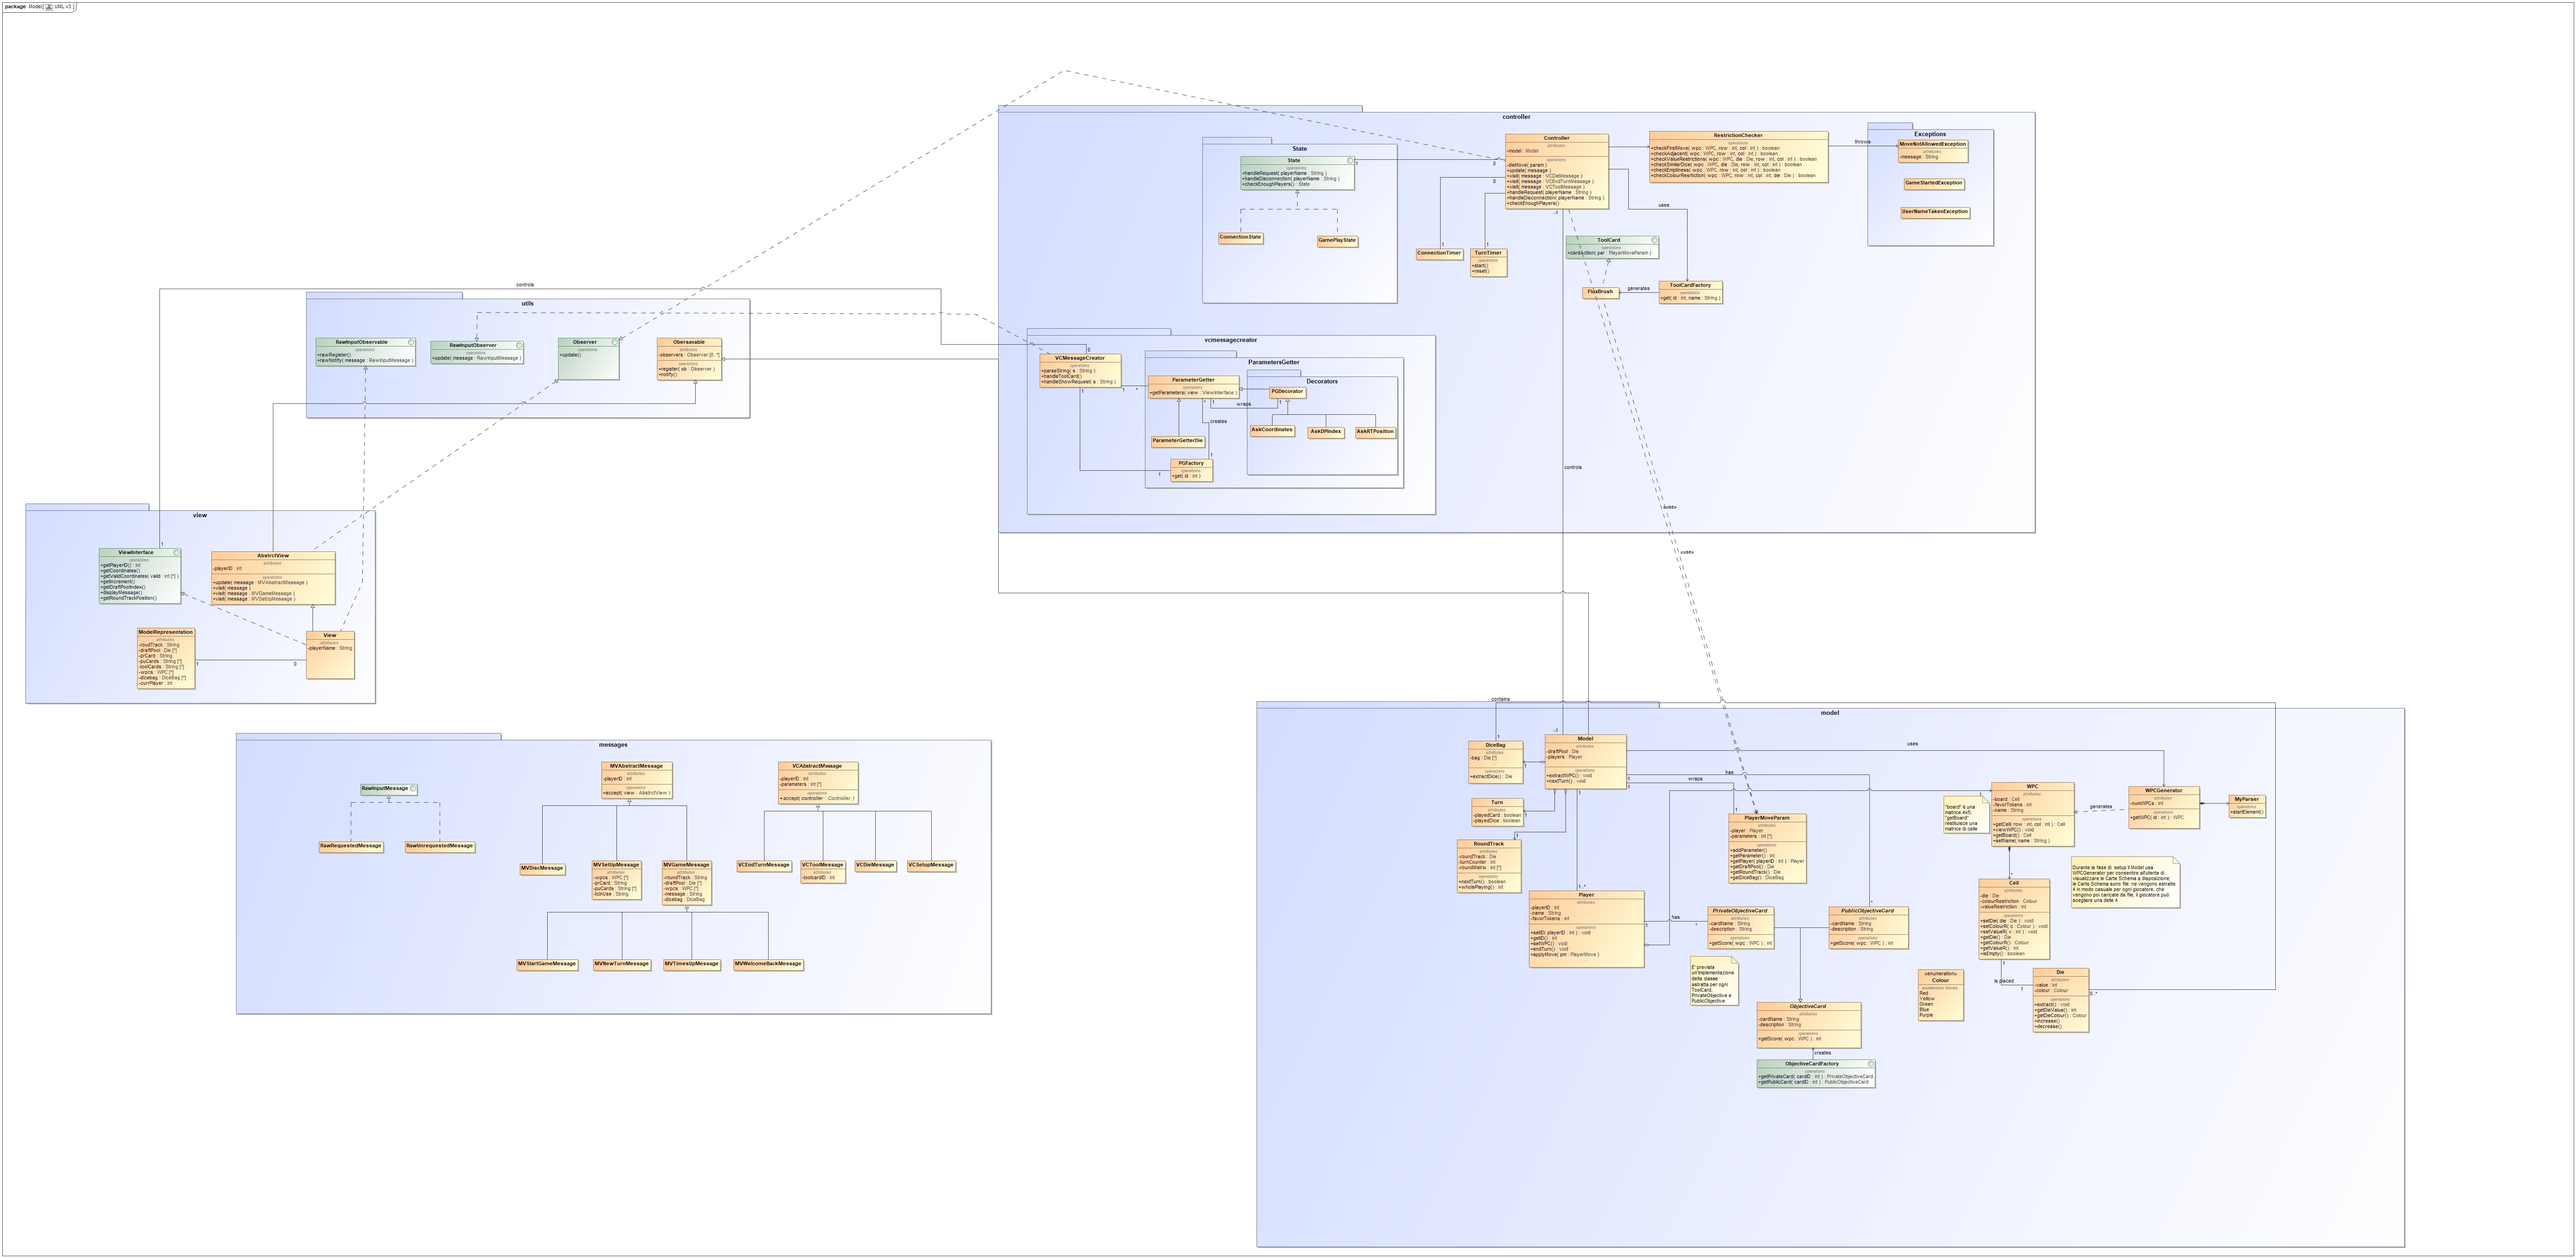
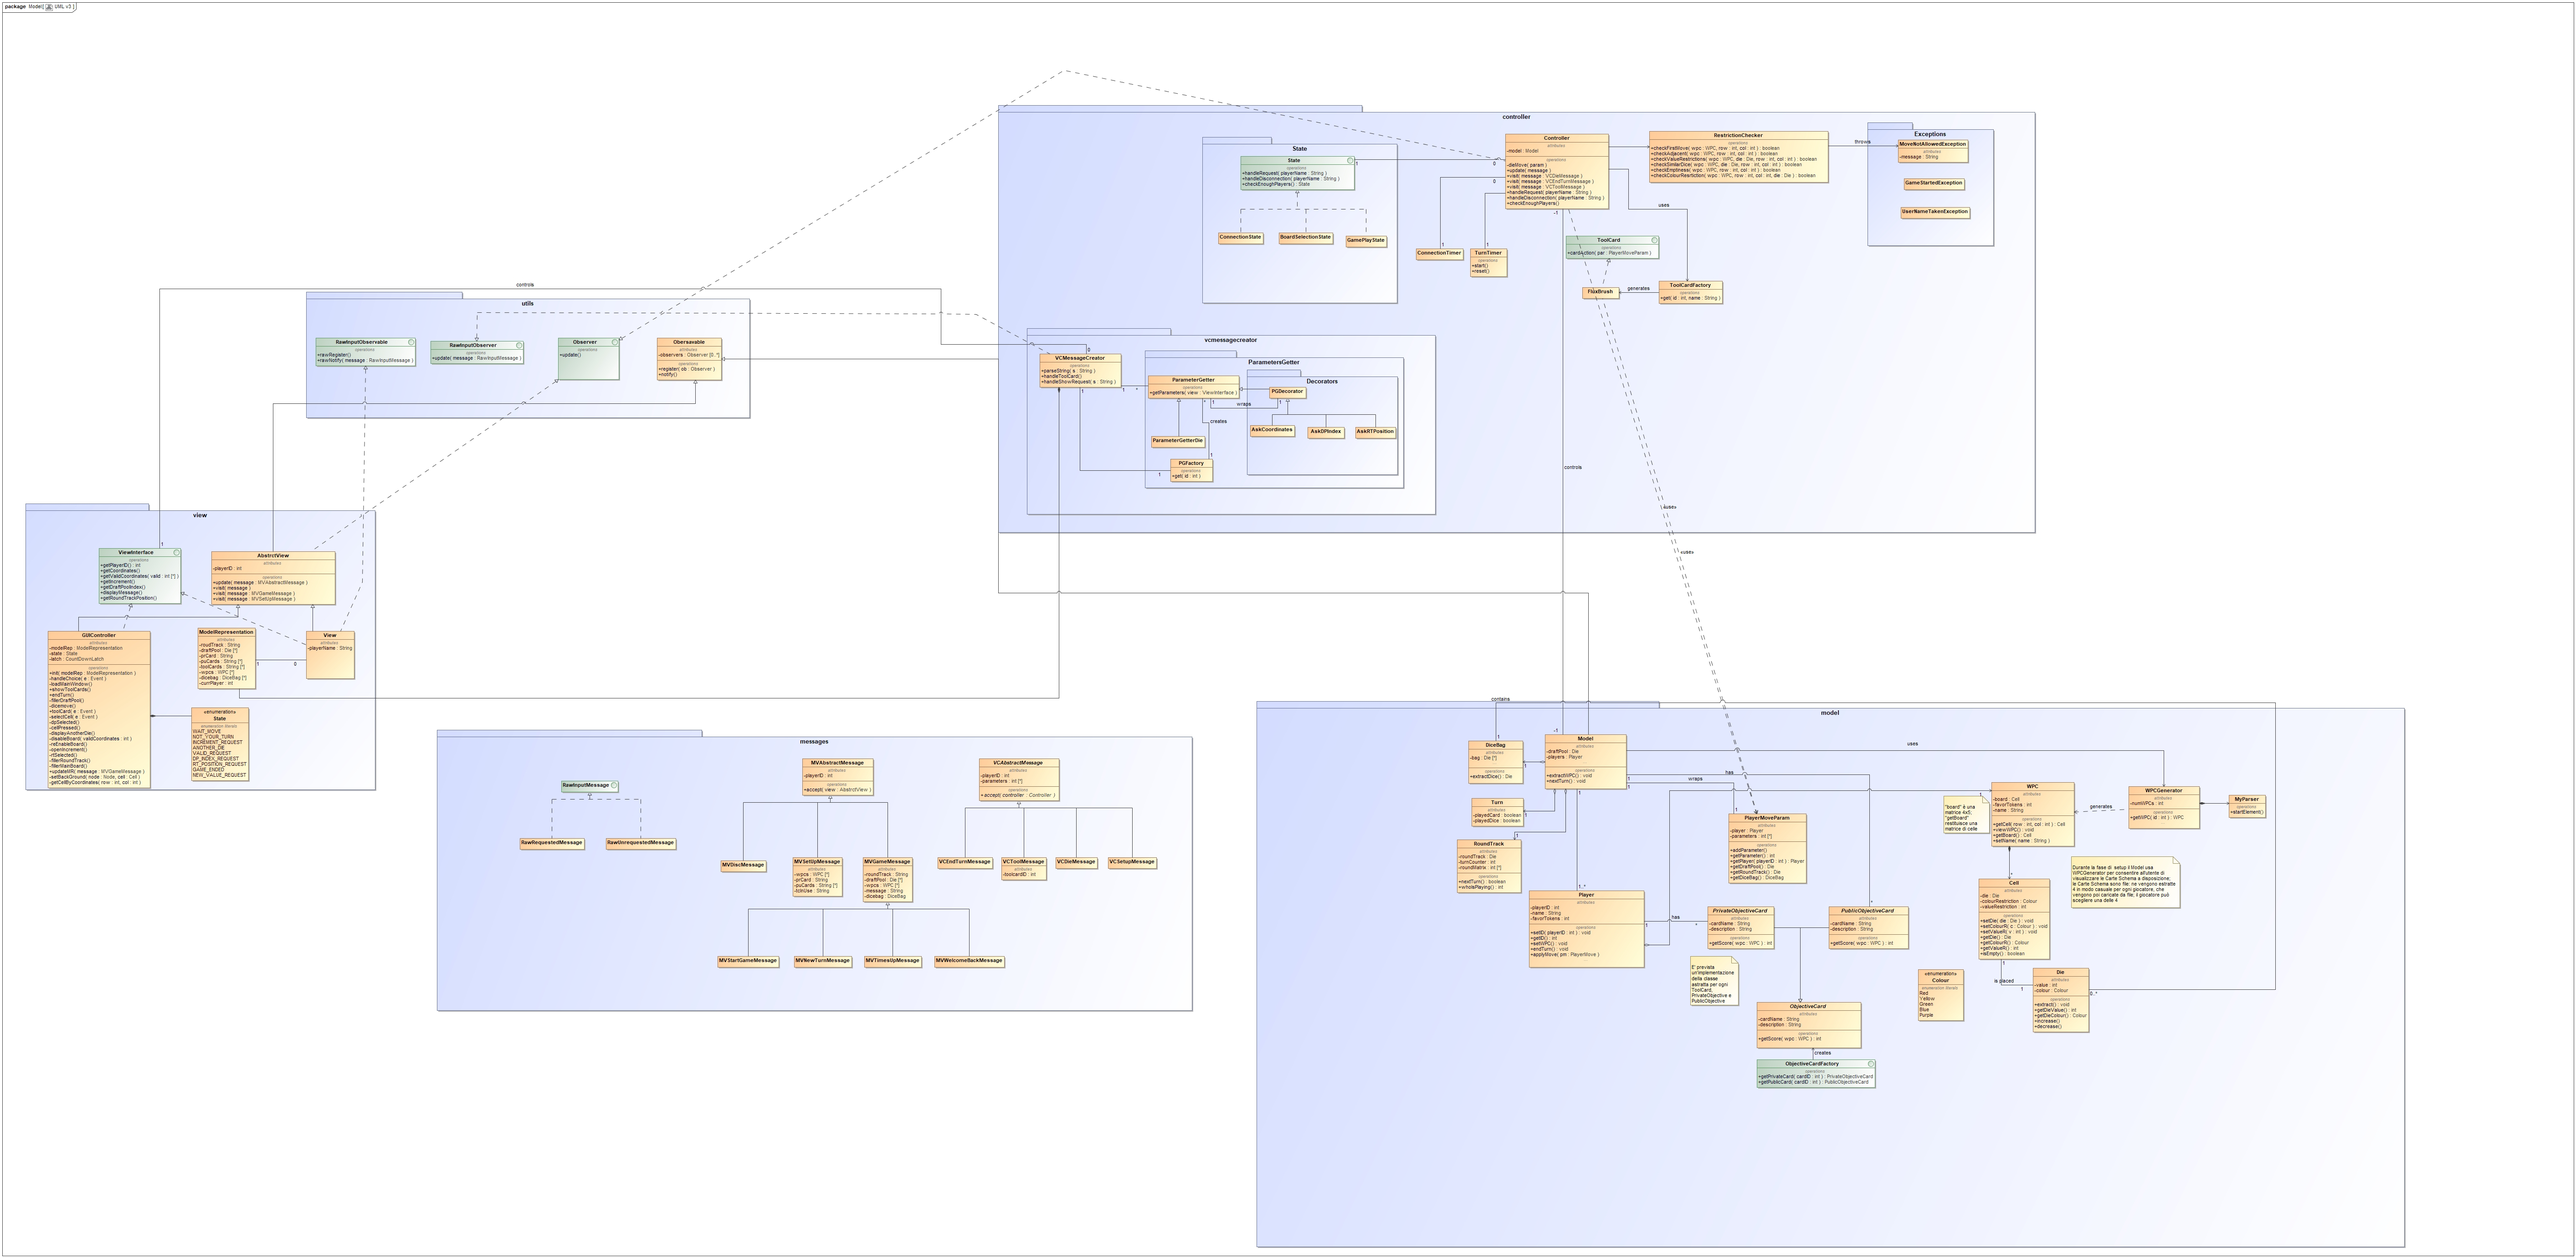
uml

Changed region(s): [[0.0, 0.498, 0.4669, 0.8093], [0.4981, 0.1868, 0.5292, 0.2179]]

diff --git a/src/main/java/it/polimi/se2018/networking/server/rmi/RMIClientConnection.java b/src/main/java/it/polimi/se2018/networking/server/rmi/RMIClientConnection.java
@@ -11,7 +11,8 @@ import java.rmi.Remote;
 import java.rmi.RemoteException;
 
 /**
- * Class for RMI client connection
+ * Class for RMI client connection, provides the remote interface of the server, used by the client
+ * @author Pietro Ghiglio
  */
 public interface RMIClientConnection extends Remote{
 
@@ -21,10 +22,24 @@ public interface RMIClientConnection extends Remote{
 
     void notify(VCAbstractMessage message) throws RemoteException;
 
+    /**
+     * Method that gets remote-called by the client in order to try to add a player to the game
+     * @param playerName the name of the player
+     * @param client the remote-object for the client
+     * @throws UserNameTakenException when the username is already taken
+     * @throws GameStartedException when a game is already started
+     */
     void handleRequest(String playerName, RMIServerConnection client) throws RemoteException, UserNameTakenException,
     GameStartedException;
 
+    /**
+     * Method remote-called by the client in order in order to check if, after it's own addition, there are enough players to start a game
+     */
     void checkEnoughPlayers() throws RemoteException;
 
+    /**
+     * Method used to periodically check if the connection is working
+     * @throws RemoteException when there are connection problems
+     */
     void poll() throws RemoteException;
 }

diff --git a/src/main/java/it/polimi/se2018/view/gui/GUIcontroller.java b/src/main/java/it/polimi/se2018/view/gui/GUIcontroller.java
@@ -730,18 +730,16 @@ public class GUIcontroller implements ViewInterface, Observer<MVAbstractMessage>
      * Sets the RT_POS_REQUEST
      */
     public void getRoundTrackPosition(String s) {
-        /*System.out.println(modelRepresentation.getRoundTrackString());
-        Scanner in = new Scanner(System.in);
-        int round = in.nextInt();
-        int pos = in.nextInt();
-        rawNotify(new RawRequestedMessage(round));
-        rawNotify(new RawRequestedMessage(pos));*/
         displayMessage(s);
         setState(State.RT_POSITION_REQUEST);
         latch.reset();
         latch.await();
     }
 
+    /**
+     * Method called when a RoundTrack cell is selected
+     * @param e the event
+     */
     @FXML
     private void rtSelected(Event e){
         if(state == State.RT_POSITION_REQUEST) {
